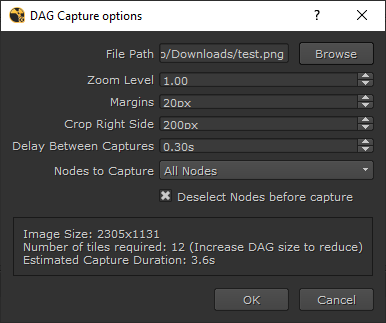
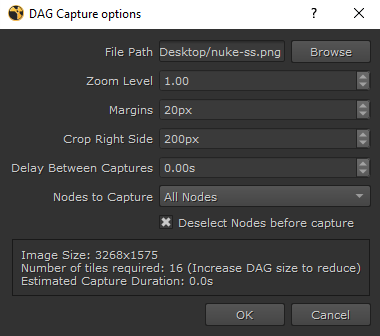
Speed enhancement and refactor (#3)
* [Change] Added new method for running plugin into readme.

* [Change] Added new method for running plugin.

* [Refactor] Changed function name to on_thread_finished.

* [Fix] Remove delays and replace them with synchronous calls.

* [Refactor] Replace four for loops with one.

* [Refactor] Fix typo.

* [Refactor] Added typing + docstrings + formatted.

* [Update] Screenshot to reflect changes.

* [Fix] Image size is always a square.

* [Fix] Error where screen width was used for calculating max_y.

* [Add] Delay back.

* [Refactor] format too long lines and wierd indents.

* [Update] Screenshot to reflect changes.

* [Remove] Unused import.

---------

diff --git a/dag_capture.py b/dag_capture.py
@@ -1,10 +1,14 @@
-import time
+import logging
 import nuke
+import time
 from PySide2 import QtWidgets, QtOpenGL, QtGui, QtCore
+from PySide2.QtWidgets import QApplication
 from math import ceil
+from typing import Tuple
 
 
-def get_dag():
+def get_dag() -> QtOpenGL.QGLWidget:
+    """Retrieve the QGLWidget of DAG graph"""
     stack = QtWidgets.QApplication.topLevelWidgets()
     while stack:
         widget = stack.pop()
@@ -12,18 +16,24 @@ def get_dag():
             for c in widget.children():
                 if isinstance(c, QtOpenGL.QGLWidget):
                     return c
+
         stack.extend(c for c in widget.children() if c.isWidgetType())
 
 
-def grab_dag(dag, painter, xpos, ypos):
-    dag.updateGL()  # This does some funky back and forth but function grabs the wrong thing without it
+def grab_dag(dag: QtOpenGL.QGLWidget, painter: QtGui.QPainter, xpos: int, ypos: int) -> None:
+    """Draw dag frame buffer to painter image at given coordinates"""
+    # updateGL does some funky stuff because grabFrameBuffer grabs the wrong thing without it
+    dag.updateGL()
     pix = dag.grabFrameBuffer()
     painter.drawImage(xpos, ypos, pix)
 
 
 class DagCapturePanel(QtWidgets.QDialog):
-    def __init__(self):
-        super(DagCapturePanel, self).__init__()
+    """UI Panel for DAG capture options"""
+
+    def __init__(self) -> None:
+        parent = QApplication.instance().activeWindow()
+        super(DagCapturePanel, self).__init__(parent)
 
         # Variables
         self.dag = get_dag()
@@ -32,7 +42,7 @@ class DagCapturePanel(QtWidgets.QDialog):
 
         self.dag_bbox = None
         self.capture_thread = DagCapture(self.dag)
-        self.capture_thread.finished.connect(self.show_finished_popup)
+        self.capture_thread.finished.connect(self.on_thread_finished)
         self.selection = []
 
         # UI
@@ -44,7 +54,7 @@ class DagCapturePanel(QtWidgets.QDialog):
         form_layout.setLabelAlignment(QtCore.Qt.AlignRight)
         main_layout.addLayout(form_layout)
 
-        # Options
+        # region Options
         # Path
         container = QtWidgets.QWidget()
         path_layout = QtWidgets.QHBoxLayout()
@@ -79,23 +89,27 @@ class DagCapturePanel(QtWidgets.QDialog):
         self.ignore_right.setRange(0, 1000)
         self.ignore_right.setValue(200)
         self.ignore_right.setSuffix("px")
-        self.ignore_right.setToolTip("The right side of the DAG usually contains a mini version of itself.\n"
-                                     "This gets included in the screen capture, so it is required to crop it out. \n"
-                                     "If you scaled it down, you can reduce this number to speed up capture slightly.")
+        self.ignore_right.setToolTip(
+            "The right side of the DAG usually contains a mini version of itself.\n"
+            "This gets included in the screen capture, so it is required to crop it out. \n"
+            "If you scaled it down, you can reduce this number to speed up capture slightly."
+        )
         self.ignore_right.valueChanged.connect(self.display_info)
         form_layout.addRow("Crop Right Side", self.ignore_right)
 
         # Delay
         self.delay = QtWidgets.QDoubleSpinBox()
-        self.delay.setValue(.3)
-        self.delay.setRange(0.1, 1)
+        self.delay.setValue(0)
+        self.delay.setRange(0, 1)
         self.delay.setSuffix("s")
         self.delay.setSingleStep(.1)
         self.delay.valueChanged.connect(self.display_info)
-        self.delay.setToolTip("A longer delay ensures the Nuke DAG has fully refreshed between capturing tiles.\n"
-                              "It makes the capture slower, but ensures a correct result.\n"
-                              "Feel free to adjust based on results you have seen on your machine.\n"
-                              "Increase if the capture looks incorrect.")
+        self.delay.setToolTip(
+            "A longer delay ensures the Nuke DAG has fully refreshed between capturing tiles.\n"
+            "It makes the capture slower, but ensures a correct result.\n"
+            "Feel free to adjust based on results you have seen on your machine.\n"
+            "Increase if the capture looks incorrect."
+        )
         form_layout.addRow("Delay Between Captures", self.delay)
 
         # Capture all nodes or selection
@@ -108,6 +122,7 @@ class DagCapturePanel(QtWidgets.QDialog):
         self.deselect = QtWidgets.QCheckBox("Deselect Nodes before capture")
         self.deselect.setChecked(True)
         form_layout.addWidget(self.deselect)
+        # endregion Options
 
         # Add Information box
         self.info = QtWidgets.QLabel("Hi")
@@ -118,7 +133,9 @@ class DagCapturePanel(QtWidgets.QDialog):
         main_layout.addWidget(info_box)
 
         # Buttons
-        button_box = QtWidgets.QDialogButtonBox(QtWidgets.QDialogButtonBox.Ok | QtWidgets.QDialogButtonBox.Cancel)
+        button_box = QtWidgets.QDialogButtonBox(
+            QtWidgets.QDialogButtonBox.Ok | QtWidgets.QDialogButtonBox.Cancel
+        )
         button_box.accepted.connect(self.do_capture)
         button_box.rejected.connect(self.reject)
         main_layout.addWidget(button_box)
@@ -127,15 +144,20 @@ class DagCapturePanel(QtWidgets.QDialog):
 
         self.inspect_dag()
 
-    def display_info(self):
+    def display_info(self) -> None:
+        """Displays the calculated information"""
         zoom = self.zoom_level.value()
+
         # Check the size of the current widget, excluding the right side (because of minimap)
         capture_width = self.dag.width()
         crop = self.ignore_right.value()
         if crop >= capture_width:
-            self.info.setText("Error: Crop is larger than capture area.\n"
-                              "Increase DAG size or reduce crop.")
+            self.info.setText(
+                "Error: Crop is larger than capture area.\n"
+                "Increase DAG size or reduce crop."
+            )
             return
+
         capture_width -= crop
         capture_height = self.dag.height()
 
@@ -152,26 +174,34 @@ class DagCapturePanel(QtWidgets.QDialog):
         info = "Image Size: {width}x{height}\n" \
                "Number of tiles required: {tiles} (Increase DAG size to reduce) \n" \
                "Estimated Capture Duration: {time}s"
-        info = info.format(width=int(image_width), height=int(image_height), tiles=total_tiles, time=total_time)
+        info = info.format(width=int(image_width), height=int(image_height), tiles=total_tiles,
+                           time=total_time)
         self.info.setText(info)
 
-    def inspect_dag(self):
+    def inspect_dag(self) -> None:
+        """Calculate the bounding box for DAG"""
         nodes = nuke.allNodes() if self.capture.currentIndex() == 0 else nuke.selectedNodes()
-        # Calculate the total size of the DAG
-        min_x = min([node.xpos() for node in nodes])
-        min_y = min([node.ypos() for node in nodes])
-        max_x = max([node.xpos() + node.screenWidth() for node in nodes])
-        max_y = max([node.ypos() + node.screenHeight() for node in nodes])
-        self.dag_bbox = (min_x, min_y, max_x, max_y)
 
+        # Calculate the total size of the DAG
+        min_x, min_y, max_x, max_y = [], [], [], []
+        for node in nodes:
+            min_x.append(node.xpos())
+            min_y.append(node.ypos())
+            max_x.append(node.xpos() + node.screenWidth())
+            max_y.append(node.ypos() + node.screenHeight())
+
+        self.dag_bbox = (min(min_x), min(min_y), max(max_x), max(max_y))
         self.display_info()
 
-    def show_file_browser(self):
-        filename, _filter = QtWidgets.QFileDialog.getSaveFileName(parent=self, caption='Select output file',
-                                                                  filter="PNG Image (*.png)")
+    def show_file_browser(self) -> None:
+        """Display the file browser"""
+        filename, _filter = QtWidgets.QFileDialog.getSaveFileName(
+            parent=self, caption='Select output file',
+            filter="PNG Image (*.png)")
         self.path.setText(filename)
 
-    def do_capture(self):
+    def do_capture(self) -> None:
+        """Run the capture thread"""
         self.hide()
 
         # Deselect nodes if required:
@@ -179,6 +209,7 @@ class DagCapturePanel(QtWidgets.QDialog):
             for selected_node in nuke.selectedNodes():
                 self.selection.append(selected_node)
                 selected_node.setSelected(False)
+
         # Push settings to Thread
         self.capture_thread.path = self.path.text()
         self.capture_thread.margins = self.margins.value()
@@ -186,21 +217,40 @@ class DagCapturePanel(QtWidgets.QDialog):
         self.capture_thread.delay = self.delay.value()
         self.capture_thread.bbox = self.dag_bbox
         self.capture_thread.zoom = self.zoom_level.value()
+
         # Run thread
         self.capture_thread.start()
 
-    def show_finished_popup(self):
+    def on_thread_finished(self) -> None:
+        """Re-Select previously selected items and display a result popup"""
+        # Re-Select previously selected items
         for node in self.selection:
             node.setSelected(True)
+
+        # Display a result popup
         if self.capture_thread.successful:
-            nuke.message("Capture complete:\n"
-                         "{}".format(self.path.text()))
+            nuke.message(
+                "Capture complete:\n"
+                "{}".format(self.path.text())
+            )
         else:
-            nuke.message("Something went wrong with the DAG capture, please check script editor for details")
+            nuke.message(
+                "Something went wrong with the DAG capture, please check script editor for details"
+            )
 
 
 class DagCapture(QtCore.QThread):
-    def __init__(self, dag, path='', margins=20, ignore_right=200, delay=0.3, bbox=(-50, 50, -50, 50), zoom=1.0):
+    """Thread class for capturing screenshot of Nuke DAG"""
+    def __init__(
+            self,
+            dag: QtOpenGL.QGLWidget,
+            path: str = '',
+            margins: int = 20,
+            ignore_right: int = 200,
+            delay=0,
+            bbox: Tuple[int, int, int, int] = (-50, 50, -50, 50),
+            zoom: int = 1.0
+    ) -> None:
         super(DagCapture, self).__init__()
         self.dag = dag
         self.path = path
@@ -211,10 +261,12 @@ class DagCapture(QtCore.QThread):
         self.zoom = zoom
         self.successful = False
 
-    def run(self):
+    def run(self) -> None:
+        """On thread start"""
         # Store the current dag size and zoom
         original_zoom = nuke.zoom()
         original_center = nuke.center()
+
         # Calculate the total size of the DAG
         min_x, min_y, max_x, max_y = self.bbox
         zoom = self.zoom
@@ -235,27 +287,41 @@ class DagCapture(QtCore.QThread):
         image_height = int((max_y - min_y) * zoom)
         horizontal_tiles = int(ceil(image_width / float(capture_width)))
         vertical_tiles = int(ceil(image_height / float(capture_height)))
+
         # Create a pixmap to store the results
         pixmap = QtGui.QPixmap(image_width, image_height)
         painter = QtGui.QPainter(pixmap)
         painter.setCompositionMode(painter.CompositionMode_SourceOver)
-        # Move the dag so that the top left corner is in the top left corner, screenshot, paste in the pixmap, repeat
+
+        # Move the dag so that the top left corner is in the top left corner,
+        # screenshot, paste in the pixmap, repeat
         for tile_x in range(horizontal_tiles):
-            center_x = (min_x + capture_width / zoom * tile_x) + (capture_width + self.ignore_right) / zoom / 2
+            x_offset_tile = (min_x + capture_width / zoom * tile_x)
+            x_offset_zoom = (capture_width + self.ignore_right) / zoom / 2
+            center_x = x_offset_tile + x_offset_zoom
             for tile_y in range(vertical_tiles):
                 center_y = (min_y + capture_height / zoom * tile_y) + capture_height / zoom / 2
-                nuke.executeInMainThread(nuke.zoom, (zoom, (center_x, center_y)))
+                nuke.executeInMainThreadWithResult(nuke.zoom, (zoom, (center_x, center_y)))
                 time.sleep(self.delay)
-                nuke.executeInMainThread(grab_dag, (dag, painter, capture_width * tile_x, capture_height * tile_y))
+                nuke.executeInMainThreadWithResult(grab_dag,
+                                                   (dag, painter, capture_width * tile_x,
+                                                    capture_height * tile_y))
         time.sleep(self.delay)
         painter.end()
-        nuke.executeInMainThread(nuke.zoom, (original_zoom, original_center))
-        save_sucessful = pixmap.save(self.path)
-        if not save_sucessful:
+        nuke.executeInMainThreadWithResult(nuke.zoom, (original_zoom, original_center))
+        save_successful = pixmap.save(self.path)
+        if not save_successful:
             raise IOError("Failed to save PNG: %s" % self.path)
+
         self.successful = True
 
 
-if __name__ == '__main__':
+def open_dag_capture() -> None:
+    """Opens a blocking dag capture"""
+    logging.info("Opening dag capture window")
     dag_capture_panel = DagCapturePanel()
     dag_capture_panel.show()
+
+
+if __name__ == '__main__':
+    open_dag_capture()

diff --git a/menu.py b/menu.py
@@ -1,0 +1,16 @@
+import nuke
+
+import dag_capture
+
+
+def create_nuke_menu():
+    nuke_menu = nuke.menu("Nuke")
+    nuke_menu.addCommand(
+        name="Screenshot",
+        command=dag_capture.open_dag_capture,
+        tooltip="Open DAG screenshot menu",
+    )
+
+
+if __name__ == '__main__':
+    create_nuke_menu()

diff --git a/dot_nuke/init.py b/dot_nuke/init.py
@@ -1,0 +1,8 @@
+import os.path
+
+import nuke
+
+if (nuke.env["NukeVersionMajor"]) >= 13:  # Nuke 12 is python 2, not 3
+    userfolder = os.path.expanduser("~")
+    path = os.path.join(userfolder, "Documents/nuke_screenshot")
+    nuke.pluginAddPath(path)

diff --git a/README.md b/README.md
@@ -5,8 +5,16 @@ The first version was written as an answer to a [Stack Overflow Question](https:
 
 ## Usage
 
-For now the easiest way to use the script when required is to copy and paste the content of [dag_capture.py](dag_capture.py) into the Nuke script editor and execute the whole thing.
-Feel free to contact me if you want to install in a menu.py and can't figure it out yourself. 
+
+This script can be utilized in two methods. 
+
+The first is a temporary approach where you can directly copy and paste the 
+contents of [dag_capture.py](dag_capture.py) into the script editor and execute it entirely. 
+
+The second method involves a more permanent 
+setup. To do this, add the repository folder to the `%userprofile%/.nuke/init.py` file. If the init.py file does not exist 
+in your `%userprofile%/.nuke/` directory, simply copy the one provided in `dot_nuke` folder. Then, adjust the path in the 
+copied `init.py` file to correspond with the location where you cloned this repository.
 
 Pick a path for the desired location of the screenshot (.png format) and edit the options in the UI if necessary (defaults should work okay).
 
